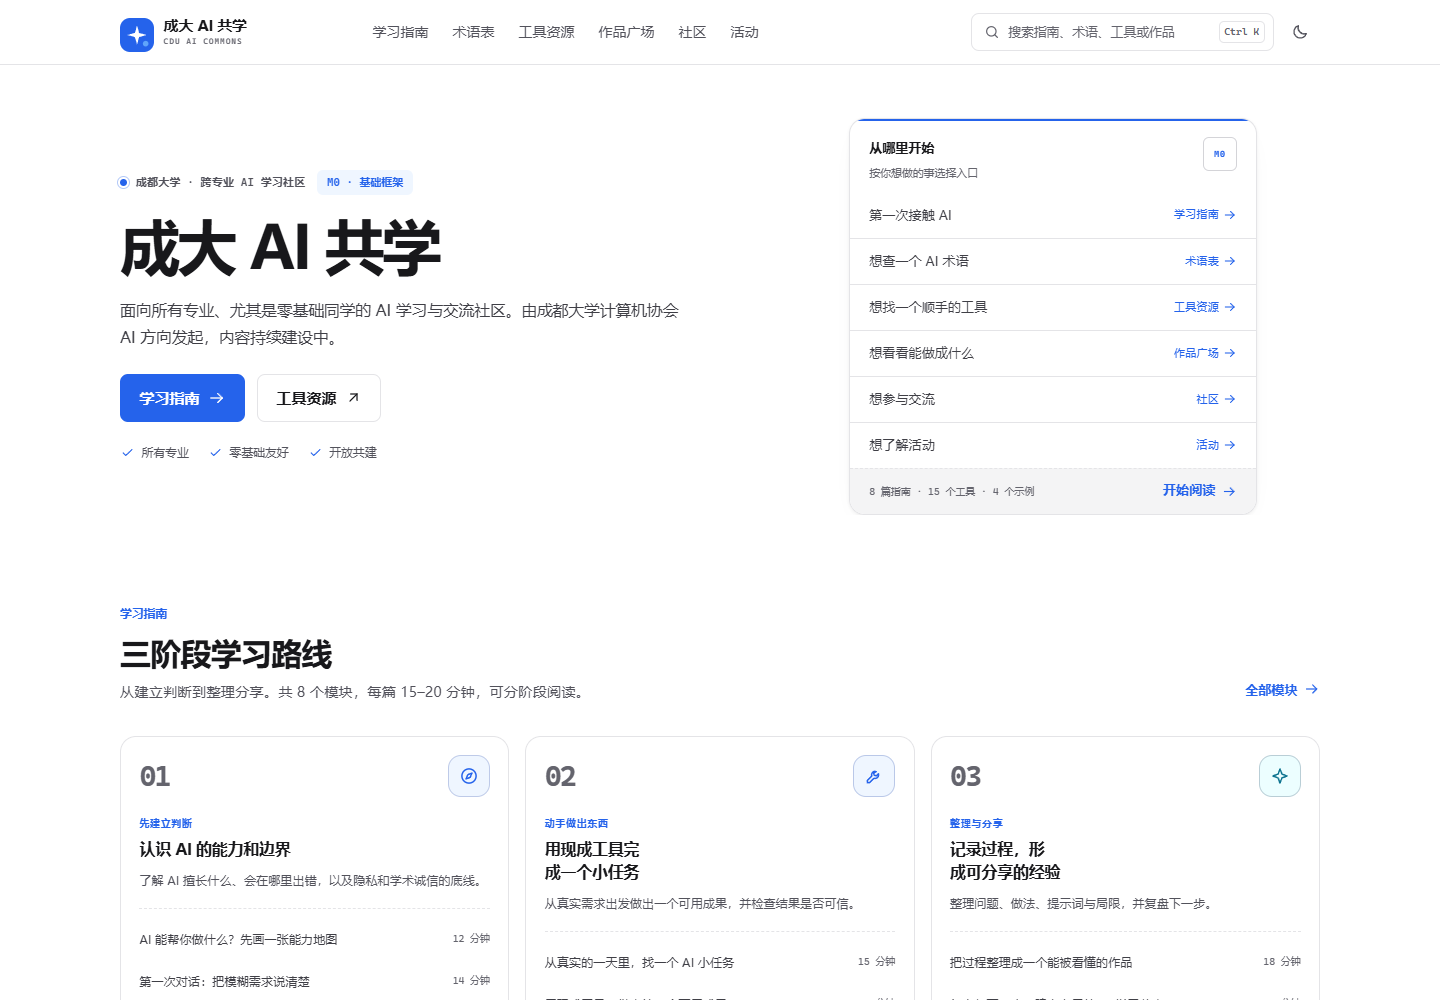
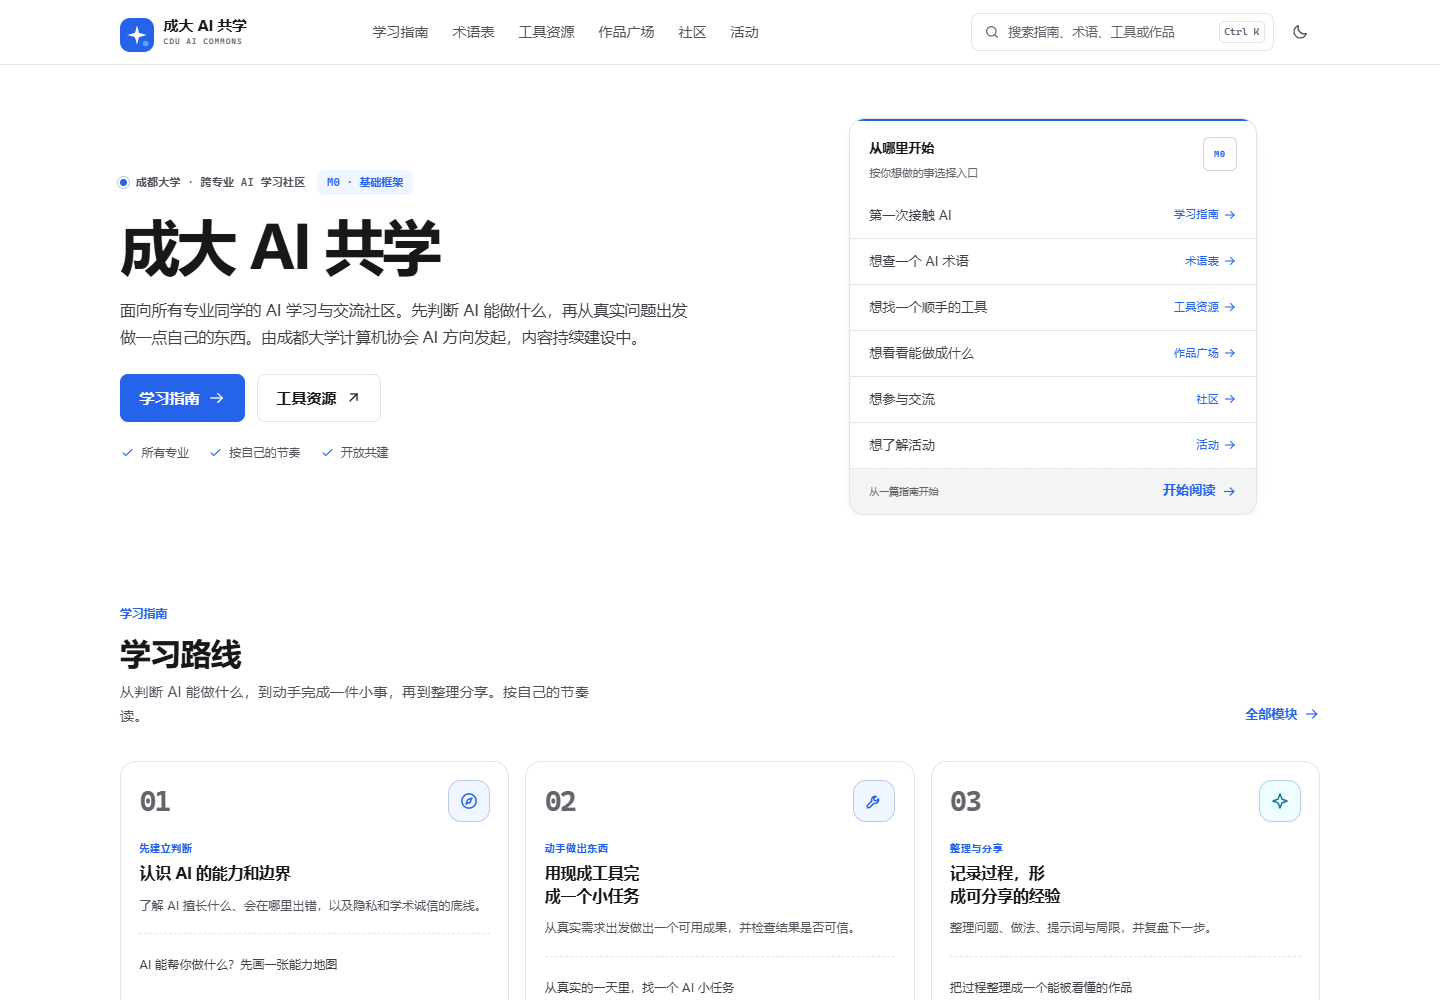
style: 收敛首页与指南的模块化文案

diff --git a/src/pages/search-index.json.ts b/src/pages/search-index.json.ts
@@ -60,10 +60,10 @@ export const GET: APIRoute = async () => {
     },
     {
       type: '页面',
-      title: '零基础学习指南',
-      description: '3 个阶段、8 个模块的零基础 AI 学习路线。',
+      title: 'AI 学习指南',
+      description: '先看清 AI 能做什么，再动手完成一件小事的学习路线。',
       href: '/guide/',
-      keywords: '学习 指南 教程 入门 零基础 路线',
+      keywords: '学习 指南 教程 入门 路线 AI',
     },
     {
       type: '页面',
@@ -75,7 +75,7 @@ export const GET: APIRoute = async () => {
     {
       type: '页面',
       title: 'AI 术语表',
-      description: '面向零基础的 AI 常用术语与校园场景示例。',
+      description: '常见 AI 术语与校园场景示例。',
       href: '/glossary/',
       keywords: '术语 词表 名词 概念 速查',
     },

diff --git a/src/data/site.ts b/src/data/site.ts
@@ -26,8 +26,8 @@ export interface NavItem {
 }
 
 export const navItems: NavItem[] = [
-  { label: '学习指南', href: '/guide/', description: '从零开始的三阶段路线' },
-  { label: '术语表', href: '/glossary/', description: '零基础 AI 术语速查' },
+  { label: '学习指南', href: '/guide/', description: '先判断，再动手的学习路线' },
+  { label: '术语表', href: '/glossary/', description: 'AI 术语速查' },
   { label: '工具资源', href: '/tools/', description: '按真实场景整理的工具索引' },
   { label: '作品广场', href: '/works/', description: '看示例，想自己的第一个作品' },
   { label: '社区', href: '/community/', description: '版块、公约与讨论起点' },

diff --git a/src/data/home.ts b/src/data/home.ts
@@ -1,7 +1,7 @@
 export const guideTips = [
   {
     title: '一次读一个模块',
-    text: '每篇 15–20 分钟，读完立刻试用一次。',
+    text: '一次读一篇，遇到具体问题时再回来查。',
   },
   {
     title: '带着真实问题',
